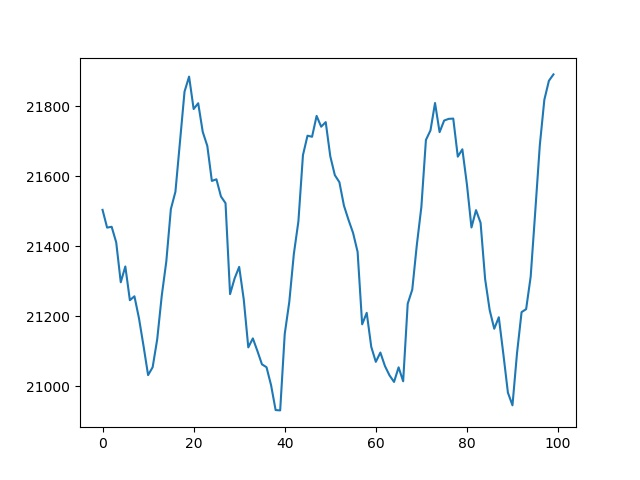
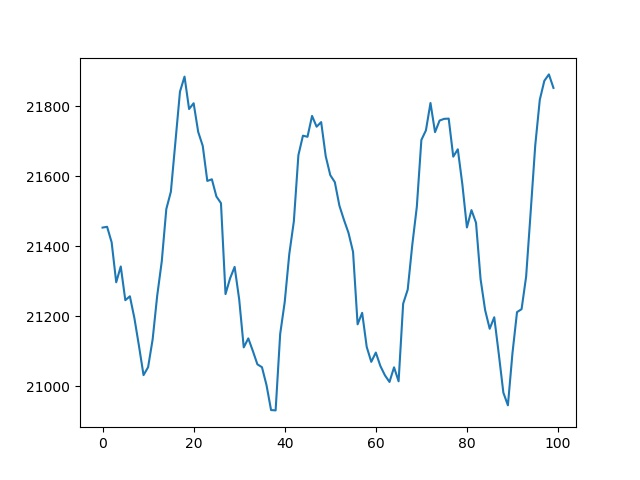
'auto'

Changed region(s): [[0.3438, 0.2188, 0.8125, 0.875], [0.1562, 0.1562, 0.3438, 0.7812], [0.8125, 0.1562, 0.875, 0.6562]]

diff --git a/README.md b/README.md
@@ -1,5 +1,5 @@
 Frizider live: 5
-21890.491666666665 
+21851.95 
 0
 Temperatura:
 
